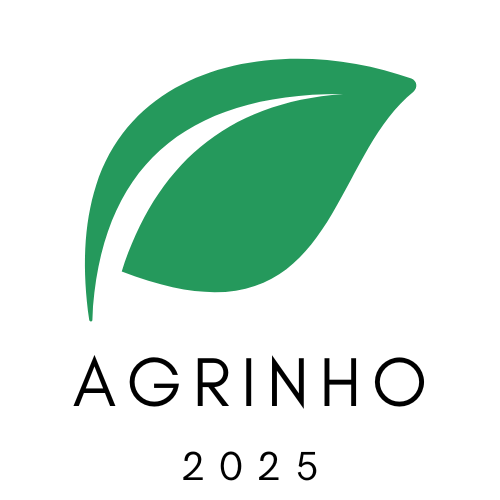
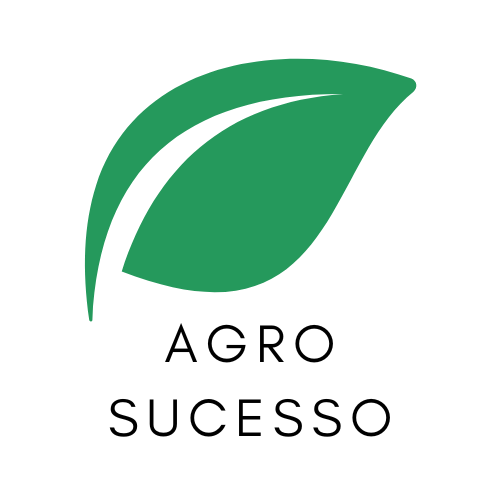
Add files via upload

diff --git a/index.html b/index.html
@@ -1,35 +1,78 @@
 <!DOCTYPE html>
 <html lang="en">
-<head>
-    <meta charset="UTF-8">
-    <meta name="viewport" content="width=device-width, initial-scale=1.0">
-    <link rel="stylesheet" href="style.css">
-    <link rel="preconnect" href="https://fonts.googleapis.com">
-    <link rel="preconnect" href="https://fonts.gstatic.com" crossorigin>
-    <link href="https://fonts.googleapis.com/css2?family=Agdasima:wght@400;700&family=Bungee+Spice&family=Turret+Road&display=swap" rel="stylesheet">
-    <link href="https://fonts.googleapis.com/css2?family=Irish+Grover&display=swap" rel="stylesheet">
-    <title>Agrinho 2025</title>
-</head>
-<body>
+  <head>
+    <meta charset="UTF-8" />
+    <meta name="viewport" content="width=device-width, initial-scale=1.0" />
+    <link rel="stylesheet" href="style.css" />
+    <link rel="preconnect" href="https://fonts.googleapis.com" />
+    <link rel="preconnect" href="https://fonts.gstatic.com" crossorigin />
+    <link
+      href="https://fonts.googleapis.com/css2?family=Agdasima:wght@400;700&family=Bungee+Spice&family=Martian+Mono:wght@100..800&family=Montserrat:ital,wght@0,100..900;1,100..900&family=Staatliches&family=Turret+Road&display=swap"
+      rel="stylesheet"
+    />
+    <link
+      href="https://fonts.googleapis.com/css2?family=Irish+Grover&display=swap"
+      rel="stylesheet"
+    />
+    <title>Agro Sucesso</title>
+  </head>
+  <body>
     <header>
-        <span class="esquerda"><img src="img/Agrinho.png" alt="desgraça" width="150px"></span>
-        <div class="titulo">Festejando a Conexão Campo Cidade</div>
-        <span class="direita"><a>Contato</a> <a>Entrar</a> <a>Logar</a> </span>
+    
+      <span class="esquerda"
+        ><img src="img/Agrinho.png" alt="desgraça" width="150px"
+      /></span>
+      <div class="titulo">Agro Sucesso</div>
+      <span class="direita"><a>Contato</a> <a>Entrar</a> <a>Logar</a> </span>
+      <div class="tamanhofonte">Tamanho da fonte:
+      <button onclick="aumentarfont()">+</button>
+      <button onclick="diminuirfont()">-</button>
+      </div>
     </header>
     <footer>
-        <div class="texto1">
-            <h2>O agronegócio é um dos principais motores da economia brasileira, representando 24% do PIB e mais de 40% das exportações. Além de garantir milhões de empregos, o setor impulsiona a inovação com tecnologias como inteligência artificial e biotecnologia, além de investir em práticas sustentáveis.<a href="https://www.agriculturasustentavel.org.br/artigo/agronegocio-importancia-para-o-brasil-e-para-o-mundo">1</a></h2>
+      <div class="texto1">
+        <h1>A importância do agro</h1>
 
-            <h2>O Brasil se destaca na produção e exportação de soja, milho, carne, café, açúcar e outros produtos essenciais para a economia global. Além disso, a preservação ambiental é um compromisso do setor, com áreas protegidas e iniciativas de agricultura de baixo carbono.<a href="https://rehagro.com.br/blog/agronegocio-no-brasil-qual-o-seu-papel-e-importancia/">2</a></h2>
+        <h2 style="text-align: justify">
+          Em 2024 as exportações do agronegócio ultrapassaram US$ 153 bilhões.
+          Isso mostra a força do agro negócio no país, e sua importância para a ecônomia nacional,
+          são 48% do total das exportações brasileiras. Os principais setores foram de soja, carne,
+          sucroalcooleiro.<sup><a
+            style="text-decoration: none"
+            href="https://www.gov.br/agricultura/pt-br/assuntos/noticias/exportacoes-do-agronegocio-ultrapassam-us-153-bilhoes-no-acumulado-de-2024#:~:text=Exportações%20do%20agronegócio%20ultrapassam%20US,Ministério%20da%20Agricultura%20e%20Pecuária"
+            >[1]</a></sup>
+        </h2> <img src="img/soja.png" style="height: 500px; margin-right: 10px;"> 
 
-            <h2>Com investimento contínuo em tecnologia e sustentabilidade, o agro brasileiro fortalece a economia e se consolida como potência mundial.<a href="https://faef.revista.inf.br/imagens_arquivos/arquivos_destaque/2OPWO6AlLTgjCrp_2013-6-24-15-3-44.pdf">3</a></h2>
-        </div>
-        <div class="texto2">
-            Mais coisas sobre agro Mais coisas sobre agro Mais coisas sobre agro Mais coisas sobre agro Mais coisas sobre agro Mais coisas sobre agro Mais coisas sobre agro Mais coisas sobre agro Mais coisas sobre agro Mais coisas sobre agro Mais coisas sobre agro Mais coisas sobre agro Mais coisas sobre agro Mais coisas sobre agro Mais coisas sobre agro Mais coisas sobre agro Mais coisas sobre agro Mais coisas sobre agro Mais coisas sobre agro
-        </div>
-        <div class="rodape">
-            Site criado por João para o Concurso agrinho 2025.
-        </div>
+        <h1> Novas tecnologias e invações</h1>
+        <h2 style="text-align: justify">
+          O Brasil vem crescendo e desenvolvendo novas tecnologias para ampliar os rendimentos
+          com o agronegócio, como na agricultura de precisão onde drones avançados são utilizados
+          para pulverização ou averiguar dados do solo e das plantas precisamente e rapidamente. <sup><a
+            style="text-decoration: none"
+            href="https://nutricaodesafras.com.br/drone-na-agricultura"
+            >[2]</a></sup>
+        </h2> <img src="img/drone.png" style="height: 500px; margin-right: 10px;">
+      </div>
+      <div class="texto2">
+        <h1>A Cultura da Cevada no Paraná</h1>
+
+        <h2 style="text-align: justify">	O Paraná é um dos maiores produtores de cevada do mundo, a cevada é bem presente
+          no estado, em 2024 foram plantados 76,5mil hectares e 360 mil toneladas colhidas, tendo 
+          a Agraria que é a maior maltaria da America Latina e lidera a produção de cevada no país.
+        </h2> <img src="img/cevada.png" style="height: 500px; margin-right: 10px;">
+
+        <h1>O transporte de grãos</h1>
+        <h2 style="text-align: justify">  O transporte dos grãos é majoriariamente feito por rodovias, mas pode ser feito por
+          água, trilhos ou aéreo, o modo rodoviário é responsável por 61,1% do transporte de grãos, 
+          seguido do ferroviário, 20,7%; o aquaviário, 13,6%; o dutoviário, 4,2% e o aeroviário possui 
+          apenas 0,4%, segundo os dados da Confederação Nacional do Transporte.
+
+        </h2> <img src="img/caminhão.jpg" style="height: 500px; margin-right: 10px;">
+      </div>
+      <div class="rodape">
+        Site criado por João para o Concurso agrinho 2025.
+      </div>
     </footer>
-</body>
+     <script src="script.js"></script>
+  </body>
 </html>

diff --git a/style.css b/style.css
@@ -5,6 +5,10 @@ body {
     font-family: Agdasima;
     color: rgb(0, 0, 0);
     font-size: 20px;
+    background-image: url(img/campo.png);
+    background-size: cover;
+    background-repeat: no-repeat;
+    background-position: center;
 }
 header {
     transition: all 0.8s ease;
@@ -30,9 +34,24 @@ img {
 }
 
 .titulo {
-    font-size: 50px;
+    font-size: 70px;
     padding-left: 25px;
-    font-family: Inknut Antiqua, serif;
+    font-family: "Agdasima", serif;
+
+}
+
+button {
+    border: none;
+    outline: none;
+    margin: 0px 5px;
+}
+
+.tamanhofonte {
+    font-size: large;
+    background-color: rgb(201, 201, 201);
+    border-radius: 5px;
+    padding-bottom: 3px;
+    padding-left: 3px;
 }
 
 .texto1 {

diff --git a/script.js b/script.js
@@ -1,0 +1,14 @@
+
+function aumentarfont(){
+    var elemento = document.querySelector("body");
+    var tamanhoAtual = window.getComputedStyle(elemento).fontSize;
+    var novoTamanho = parseFloat(tamanhoAtual) + 2 + "px";
+    elemento.style.fontSize = novoTamanho;
+}
+
+function diminuirfont(){
+    var elemento = document.querySelector("body");
+    var tamanhoAtual = window.getComputedStyle(elemento).fontSize;
+    var novoTamanho = parseFloat(tamanhoAtual) - 2 + "px";
+    elemento.style.fontSize = novoTamanho;
+}
